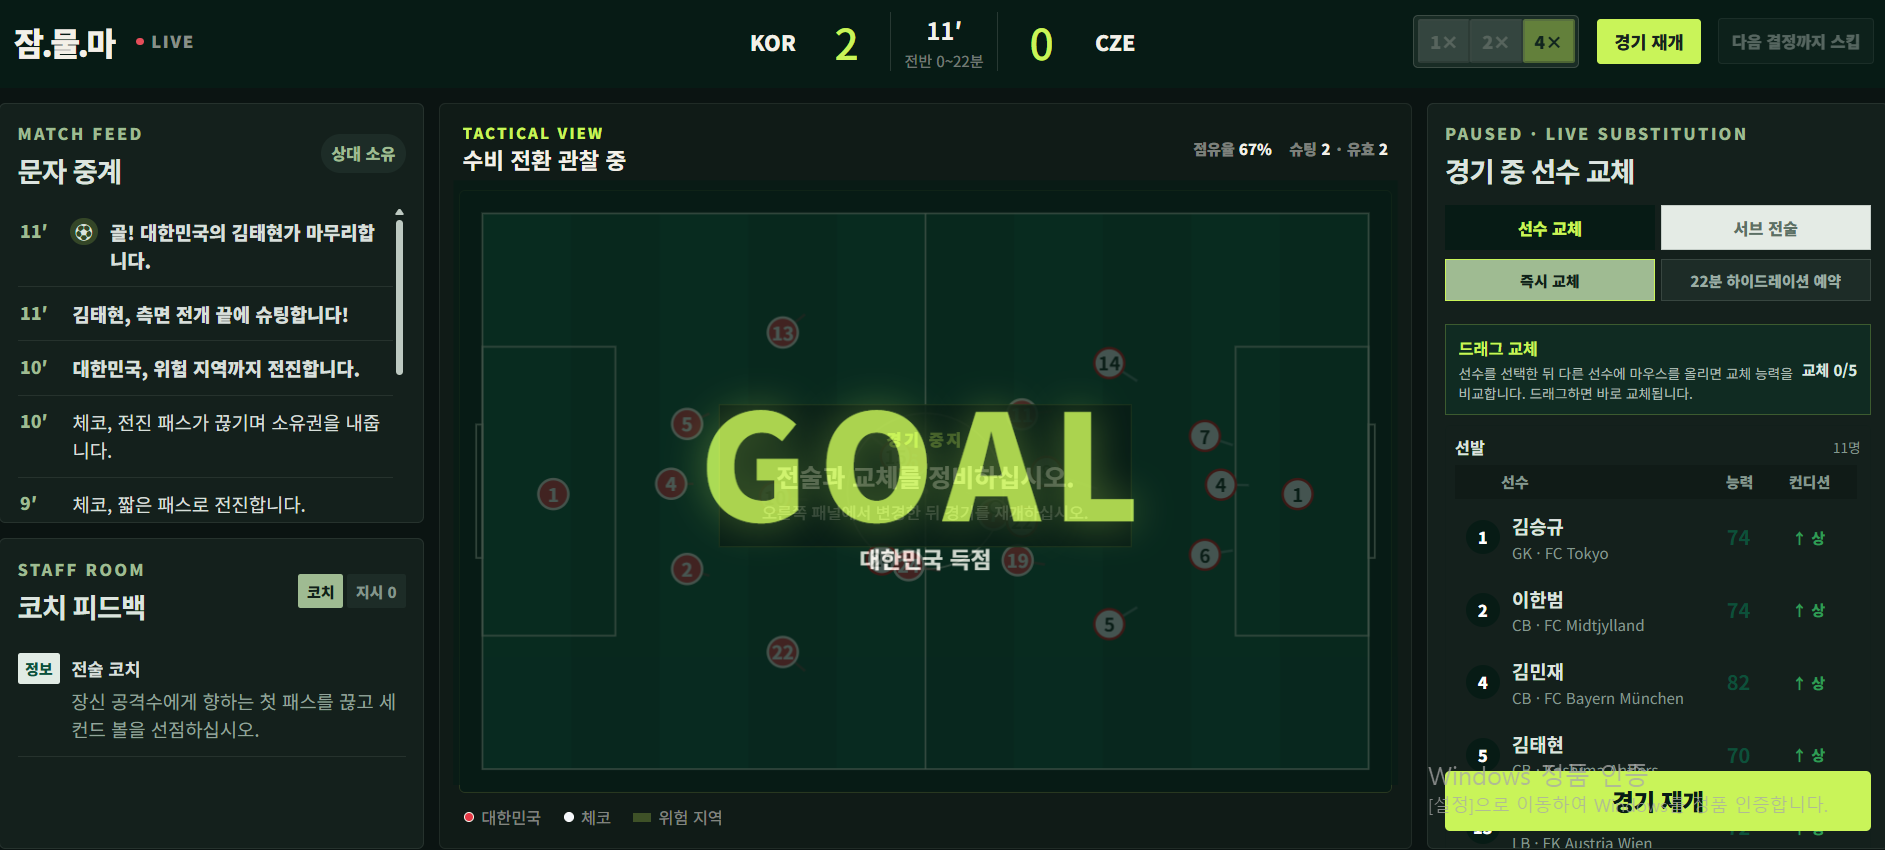
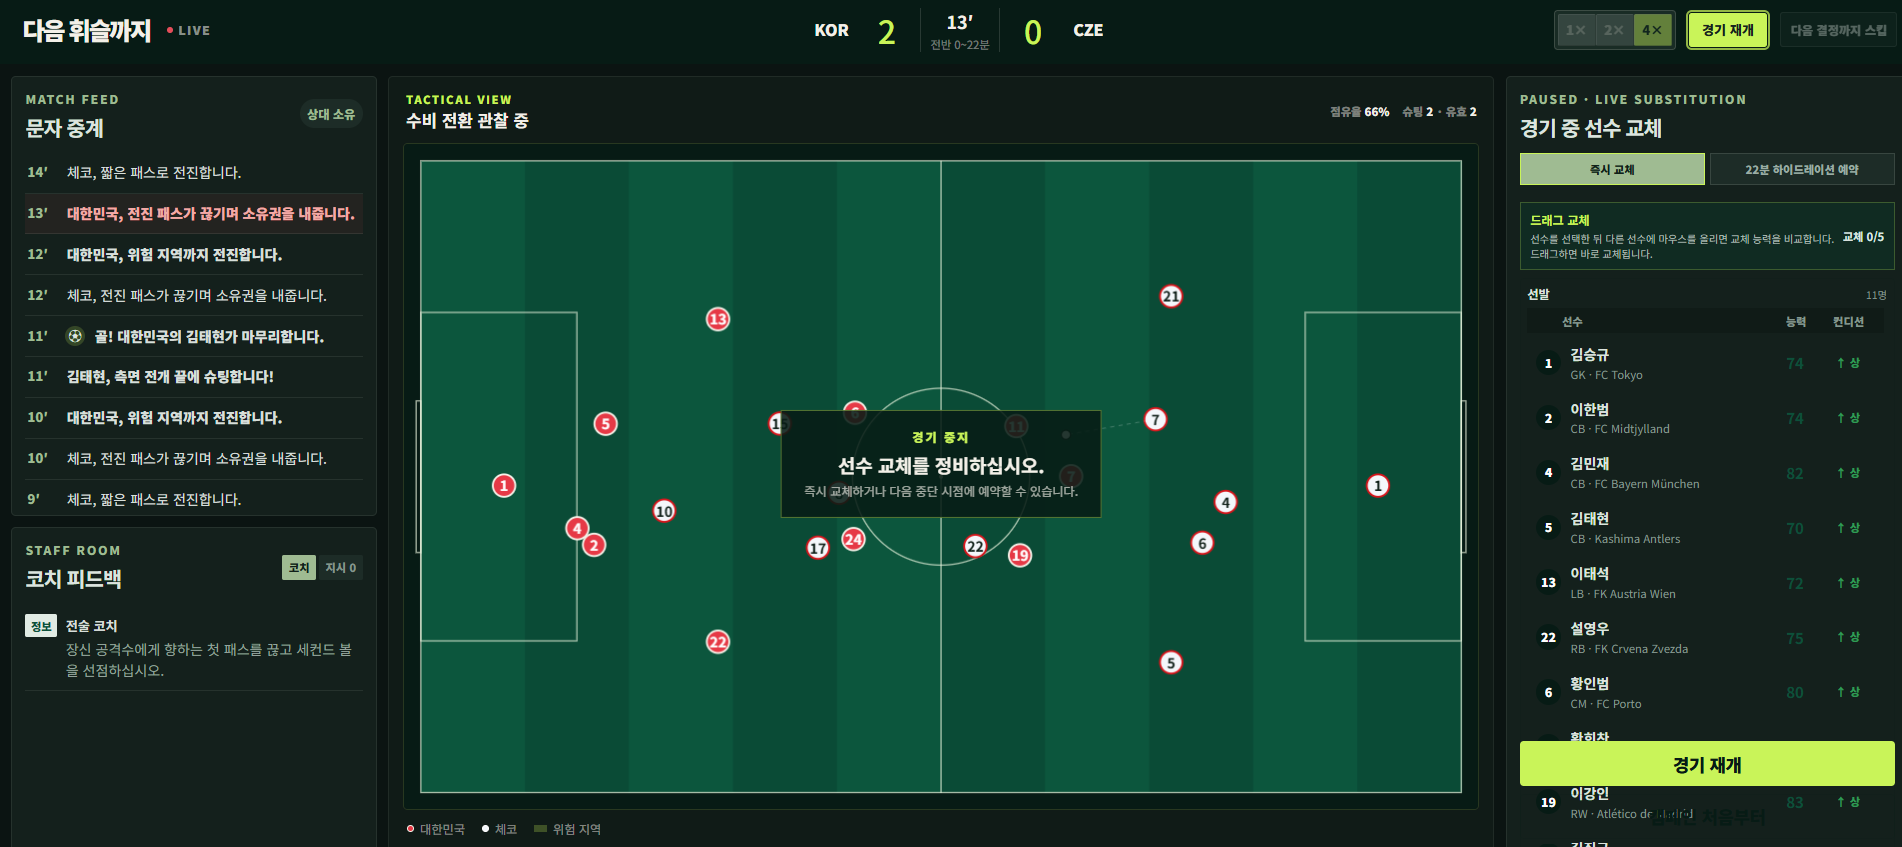
Refresh README screenshots and current gameplay guide

diff --git a/README.md b/README.md
@@ -10,6 +10,12 @@
 
 ## 게임 화면
 
+### 처음 화면 · 캠페인 시작
+
+다음 상대의 특징과 조별리그 순위를 확인하고 작전실로 이동합니다.
+
+![캠페인 시작 화면](docs/images/campaign-start.png)
+
 ### 경기 시작 전
 
 상대 분석을 확인하고 선발 명단, 선수 위치와 주·서브 전술을 편성합니다.
@@ -34,7 +40,7 @@
 
 ![하프타임 전술 조정](docs/images/halftime.png)
 
-### 경기 종료 후
+### 경기 종료 · 감독 평가
 
 전달한 지시의 효과, 경기 지표와 조별리그 순위를 확인합니다.
 
@@ -51,6 +57,7 @@
 - 체력, 카드, 부상, 팀 사기와 감독 신뢰의 경기 간 연계
 - 경기 결과 분석, 감독 평가와 조별리그 순위
 - 브라우저 자동 저장 및 진행 중인 경기 복원
+- 경기 중지 화면과 경기 후 리포트에서 캠페인 처음부터 다시 시작
 
 ## 사용법
 
@@ -63,8 +70,8 @@
 ### 게임 진행
 
 1. 상대 보고서를 확인하고 선발, 포메이션과 주·서브 전술을 편성합니다.
-2. 경기 중 전술판, 문자 중계, 통계와 코치 피드백을 관찰합니다.
-3. 하이드레이션 브레이크에는 필요한 지시를 선택한 뒤 적용합니다.
+2. 경기 흐름을 관찰하고, 중지하면 즉시 선수 교체 또는 교체 예약을 합니다. 경기 시작 후 전술 변경은 하이드레이션·하프타임에만 가능합니다.
+3. 하이드레이션 브레이크에는 지시를 선택해 전달합니다. 서브 전술은 선택 후 `적용`을 눌러야 전환되고 시간이 차감됩니다.
 4. 하프타임에는 AP를 사용해 팀·개인 지시, 교체와 위치를 조정합니다.
 5. 체력과 선수 상태를 관리하며 조별리그 3경기를 완료합니다.
 
@@ -75,12 +82,15 @@
 | 선수 선택 | 전술판 또는 명단에서 클릭 |
 | 능력 비교 | 선수를 선택한 뒤 다른 선수에 마우스 올리기 |
 | 위치 이동·교환 | 선수를 빈 공간 또는 다른 선수 위로 드래그 |
-| 선발·교체 변경 | 선발과 교체 명단 사이에서 클릭 또는 드래그 |
+| 선발·교체 변경 | 선수 선택 후 다른 선수 명단에 마우스를 올려 교체 버튼 클릭, 또는 드래그 |
 | 키보드 조작 | `Page Up`·`Page Down`으로 선택, 방향키로 이동 |
 | 선택 취소 | 선택한 행동이나 서브 전술을 다시 클릭 |
 
 GK와 필드 플레이어의 능력 비교는 가능하지만 실제 위치 교환이나 선수 교체는
 할 수 없습니다.
+
+하프타임 개인 체력 안배는 여러 선수를 선택할 수 있으며, 선수당 1 AP가 듭니다.
+같은 선수를 다시 선택하면 취소됩니다. 캠페인 재시작은 확인 후 현재 진행을 초기화합니다.
 
 ### 로컬 실행
 
@@ -89,7 +99,7 @@ Node.js 22.13 이상이 필요합니다.
 ```bash
 git clone https://github.com/jjw712/Worldcup_dacon.git
 cd Worldcup_dacon
-npm install
+npm ci
 npm run dev
 ```
 
@@ -108,13 +118,16 @@ npm run start
 npm run deploy:cloudflare
 ```
 
+직접 배포하려면 본인 Cloudflare 계정의 Wrangler 인증이 필요합니다.
+
 ## 기술 스택
 
 - React 19, TypeScript
 - vinext, Vite
 - Cloudflare Workers
 - HTML Canvas 2D 전술판
-- Vitest 단위·렌더 테스트
+- Vitest 단위 테스트, Node.js 서버 렌더링 테스트
+- GitHub Actions CI (타입 검사·린트·테스트)
 
 ## 프로젝트 구조
 
